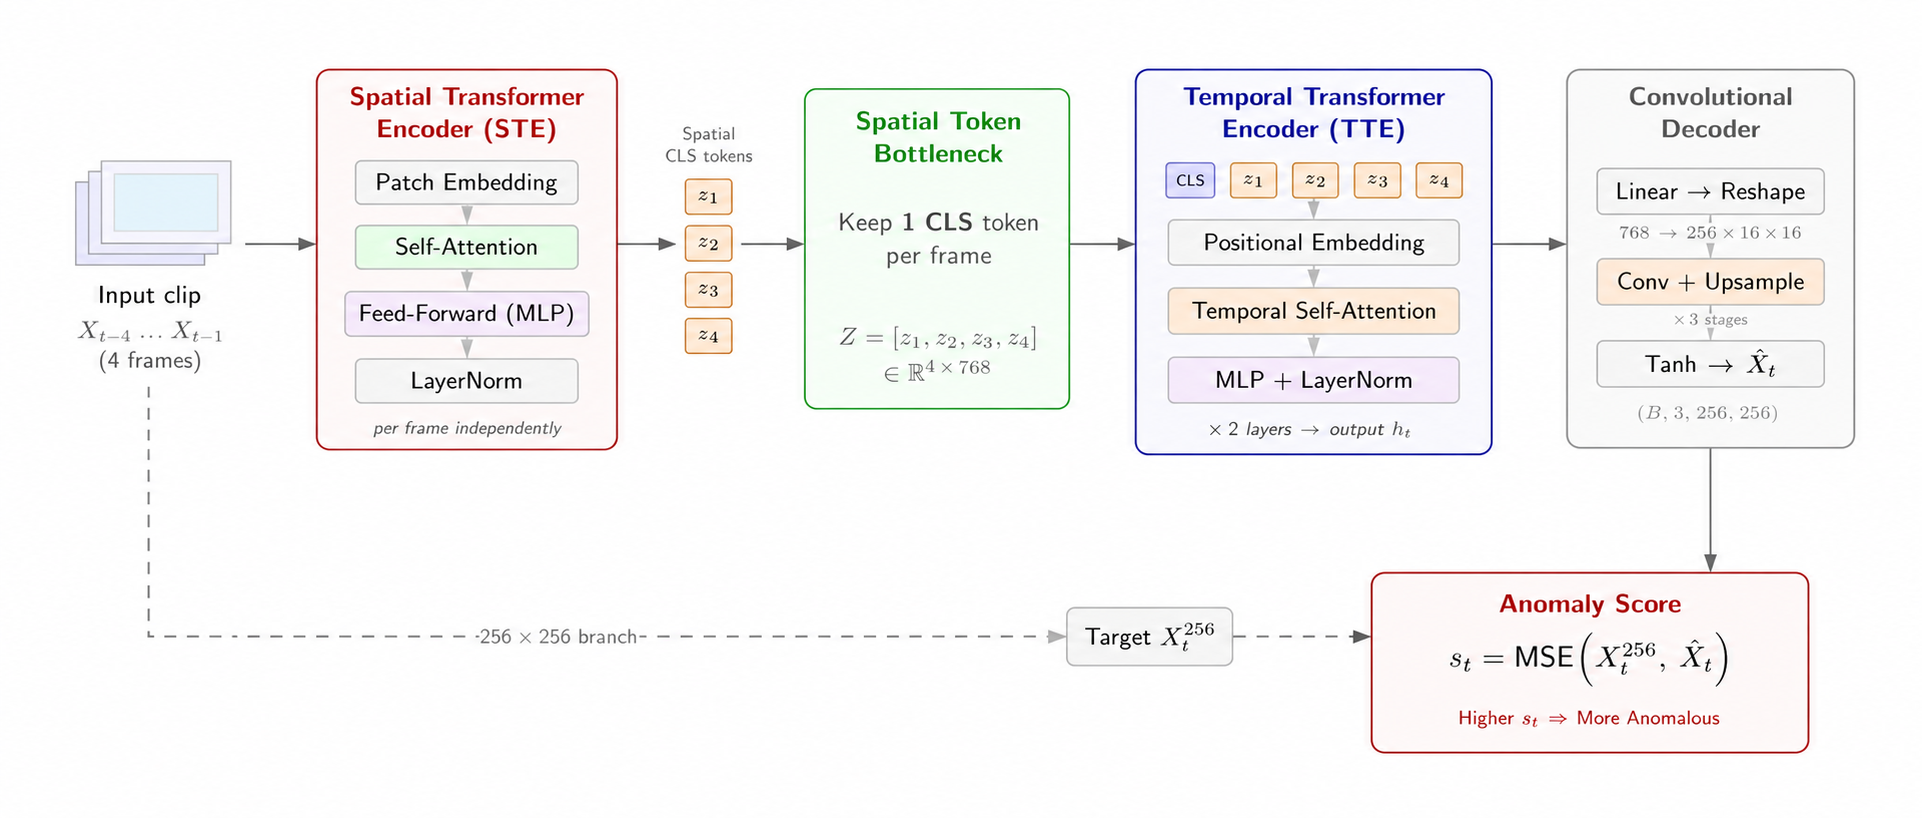
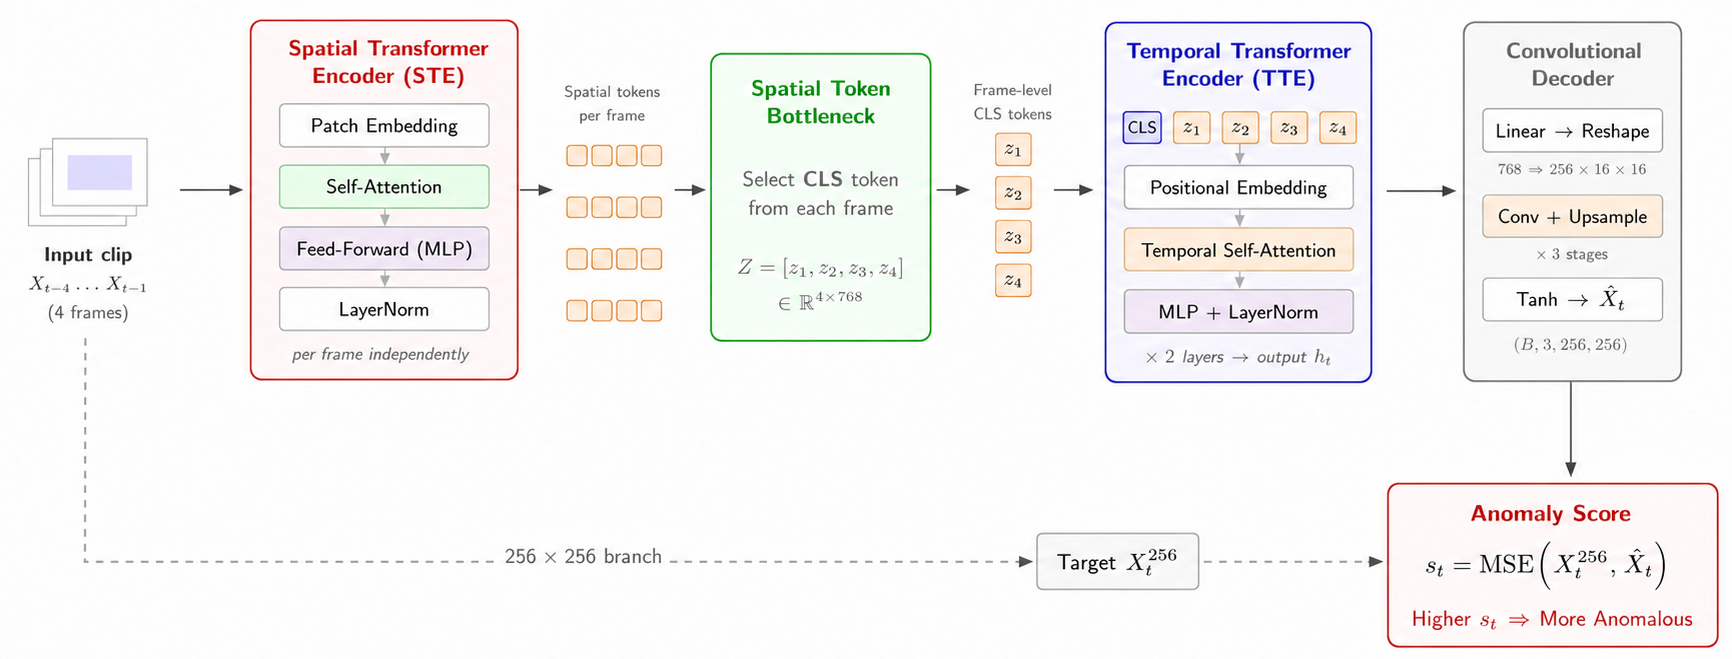
final

diff --git a/report/final/figures/pipeline_figure.tex b/report/final/figures/pipeline_figure.tex
@@ -56,12 +56,13 @@
 % Coordinates
 \coordinate (inputC) at (0, 3.15);
 \coordinate (steC) at (4.65, 3.15);
-\coordinate (tokC) at (8.65, 3.15);
-\coordinate (botC) at (11.45, 3.15);
-\coordinate (tteC) at (15.95, 3.15);
-\coordinate (decC) at (20.80, 3.15);
-\coordinate (targetC) at (14.25, -2.25);
-\coordinate (scoreC) at (20.80, -2.25);
+\coordinate (tokC) at (8.20, 3.15);
+\coordinate (botC) at (10.95, 3.15);
+\coordinate (outTokC) at (13.55, 3.15);
+\coordinate (tteC) at (16.95, 3.15);
+\coordinate (decC) at (21.80, 3.15);
+\coordinate (targetC) at (15.25, -2.25);
+\coordinate (scoreC) at (21.80, -2.25);
 
 % ---------------------------------------------------------------------
 % Input clip
@@ -95,13 +96,14 @@
 \draw[innerarrow] (ste3.south) -- (ste4.north);
 
 % ---------------------------------------------------------------------
-% Spatial CLS tokens
+% Spatial tokens before bottleneck
 % ---------------------------------------------------------------------
-\node[smallnote] at ($(tokC)+(0,1.30)$) {Spatial\\CLS tokens};
-\node[token] (z1) at ($(tokC)+(0,0.72)$) {$z_1$};
-\node[token] (z2) at ($(tokC)+(0,0.00)$) {$z_2$};
-\node[token] (z3) at ($(tokC)+(0,-0.72)$) {$z_3$};
-\node[token] (z4) at ($(tokC)+(0,-1.44)$) {$z_4$};
+\node[smallnote] at ($(tokC)+(0,1.18)$) {Spatial tokens\\per frame};
+\foreach \r/\y in {1/0.62,2/-0.08,3/-0.78,4/-1.48} {
+    \foreach \x in {-0.45,-0.15,0.15,0.45} {
+        \node[token, minimum width=0.27cm, minimum height=0.27cm, inner sep=0pt] at ($(tokC)+(\x,\y)$) {};
+    }
+}
 
 % ---------------------------------------------------------------------
 % Spatial Token Bottleneck
@@ -110,10 +112,19 @@
 \node[title, text=green!45!black] at ($(botC)+(0,1.32)$)
     {Spatial Token\\Bottleneck};
 \node[font=\sffamily\normalsize, text=black!68, align=center] at ($(botC)+(0,0.28)$)
-    {Keep \textbf{1 CLS token}\\per frame};
+    {Select \textbf{CLS token}\\from each frame};
 \node[font=\sffamily\normalsize, text=black!62] at ($(botC)+(0,-0.95)$)
     {$Z=[z_1,z_2,z_3,z_4]$};
 \node[note] at ($(botC)+(0,-1.45)$) {$\in \mathbb{R}^{4 \times 768}$};
+
+% ---------------------------------------------------------------------
+% Frame-level CLS tokens after bottleneck
+% ---------------------------------------------------------------------
+\node[smallnote] at ($(outTokC)+(0,1.30)$) {Frame-level\\CLS tokens};
+\node[token] (z1) at ($(outTokC)+(0,0.72)$) {$z_1$};
+\node[token] (z2) at ($(outTokC)+(0,0.00)$) {$z_2$};
+\node[token] (z3) at ($(outTokC)+(0,-0.72)$) {$z_3$};
+\node[token] (z4) at ($(outTokC)+(0,-1.44)$) {$z_4$};
 
 % ---------------------------------------------------------------------
 % Temporal Transformer Encoder
@@ -174,9 +185,10 @@
 % Main flow
 % ---------------------------------------------------------------------
 \draw[main] ($(inputC)+(1.55,0)$) -- (ste.west);
-\draw[main] (ste.east) -- (z2.west);
-\draw[main] (z2.east) -- (bot.west);
-\draw[main] (bot.east) -- (tte.west);
+\draw[main] (ste.east) -- ($(tokC)+(-0.75,0)$);
+\draw[main] ($(tokC)+(0.75,0)$) -- (bot.west);
+\draw[main] (bot.east) -- (z2.west);
+\draw[main] (z2.east) -- (tte.west);
 \draw[main] (tte.east) -- (dec.west);
 \draw[main] (dec.south) -- (score.north);
 

diff --git a/report/script_thuyet_trinh.md b/report/script_thuyet_trinh.md
@@ -1,0 +1,180 @@
+# Script thuyet trinh TrafficVision-Transformer
+
+Thoi luong goi y: 8-10 phut.  
+Giong noi: binh tinh, ro rang, khong doc tung bullet tren slide.  
+Thong diep chinh: day la nghien cuu tai hien co dieu chinh, tap trung vao pipeline va bien the nhe hoa phu hop tai nguyen sinh vien.
+
+---
+
+## Slide 1 - Tieu de
+
+Kinh chao thay co va cac ban.
+
+Nhom em xin trinh bay de tai TrafficVision-Transformer: tai hien co dieu chinh kien truc Spatio-Temporal Transformer nhe cho bai toan phat hien bat thuong giao thong trong video tu thiet bi bay khong nguoi lai.
+
+Y tuong chinh cua nhom la: thay vi phat hien bat thuong bang nhan truc tiep, mo hinh se hoc quy luat cua cac doan giao thong binh thuong. Sau do, neu gap mot khung hinh ma mo hinh du doan kem, sai so lon, thi khung hinh do co kha nang la bat thuong.
+
+Trong phan trinh bay nay, nhom se tap trung vao ba diem: vi sao bai toan kho, kien truc nhom da cai dat lai nhu the nao, va vi sao nhom dinh vi ket qua o muc prototype thay vi bao cao mot con so SOTA chua du tin cay.
+
+Chuyen slide: Dau tien, nhom xin trinh bay boi canh va bai toan.
+
+---
+
+## Slide 2 - Noi dung trinh bay
+
+Noi dung bai trinh bay gom sau phan.
+
+Phan mot la mo dau va dat van de. Phan hai la dinh vi va dong gop cua nghien cuu. Phan ba la phuong phap de xuat, trong do trong tam la pipeline STE-TTE va Spatial Token Bottleneck. Phan bon la thuc nghiem va danh gia. Cuoi cung, nhom tong ket huong phat trien va phan cong cong viec.
+
+Chuyen slide: Truoc het, tai sao nhom chon bai toan phat hien bat thuong giao thong tu video drone?
+
+---
+
+## Slide 3 - Mo dau va dat van de
+
+Video drone co mot loi the rat lon trong giam sat giao thong: no cho goc nhin rong, linh hoat, va co the quan sat toan canh mot khu vuc do thi. Tuy nhien, chinh goc nhin nay cung tao ra nhieu kho khan cho bai toan thi giac may tinh.
+
+Thu nhat, camera drone khong hoan toan co dinh. Video co the bi rung, bi thay doi goc nhin, hoac thay doi do cao. Thu hai, phuong tien trong anh thuong rat nho, dac biet khi quay tu tren cao. Thu ba, mat do giao thong thay doi manh theo tung canh va tung thoi diem.
+
+Mot kho khan quan trong hon la du lieu bat thuong rat hiem. Cac su kien nhu tai nan, di sai lan, dung dot ngot, hay va cham khong xuat hien thuong xuyen. Neu dung hoc co giam sat, chung ta se can rat nhieu nhan bat thuong, nhung viec thu thap va gan nhan nhu vay ton cong va khong thuc te.
+
+Vi vay, nhom chon huong hoc khong giam sat. Mo hinh chi hoc tren du lieu binh thuong. Cu the, nhom dung bai toan du doan khung hinh tuong lai: lay bon frame qua khu de du doan frame tiep theo. Neu canh giao thong dien ra binh thuong, mo hinh se du doan kha tot. Neu xuat hien hanh vi la, sai so du doan tang len, va sai so MSE nay duoc dung lam anomaly score.
+
+Chuyen slide: Voi cach tiep can nay, dong gop cua nhom nam o dau?
+
+---
+
+## Slide 4 - Dinh vi va dong gop
+
+Nhom khong dinh vi day la mot cong trinh phat minh hoan toan moi tu con so khong. Day la mot nghien cuu tai hien co dieu chinh tu huong Spatio-Temporal Transformer cho video giao thong drone.
+
+Diem quan trong la nhom dua bai toan ve mot phien ban co the cai dat, chay thu, va kiem chung trong dieu kien tai nguyen han che cua sinh vien, cu the la moi truong Google Colab.
+
+Dong gop thu nhat la cach nhe hoa mo hinh bang Spatial Token Bottleneck. Thay vi de temporal transformer xu ly tat ca patch token cua tat ca frame, nhom chi giu lai mot CLS token dai dien cho moi frame. Nhu vay, nhanh thoi gian chi can hoc tren chuoi token ngan hon rat nhieu.
+
+Dong gop thu hai la nhom xay dung pipeline end-to-end: tu doc du lieu UIT-ADrone, tao sample gom 4 frame dau vao va 1 frame target, dua qua STE, TTE, decoder, tinh MSE, luu anomaly score va dua vao script tinh AUC-ROC.
+
+Dong gop thu ba la phan tich tinh kha thi. Nhom khong co tinh bao cao mot ket qua huan luyen full-scale chua on dinh. Thay vao do, nhom trinh bay ro gioi han tinh toan va nhung phan da kiem chung duoc ve mat ky thuat.
+
+Chuyen slide: Tiep theo la kien truc tong quan cua pipeline.
+
+---
+
+## Slide 5 - Phuong phap: Tong quan kien truc
+
+Day la pipeline tong quan cua TrafficVision-Transformer.
+
+Dau vao cua mo hinh la mot input clip gom bon khung hinh qua khu, ky hieu tu X t tru 4 den X t tru 1. Data Loader se tao mau gom 5 frame lien tiep: 4 frame dau dung lam input, frame cuoi la target de tinh loss.
+
+Trong project, du lieu duoc tao thanh hai nhanh do phan giai. Nhanh standard, vi du 384 x 384, duoc dua vao encoder. Nhanh 256 x 256 duoc dung lam frame muc tieu cho decoder, giup giam bo nho khi tinh reconstruction loss.
+
+Khoi dau tien la Spatial Transformer Encoder, hay STE. Moi frame duoc dua qua mot Vision Transformer de trich xuat dac trung khong gian. Diem nhom tap trung la token CLS cua tung frame, vi no dong vai tro nhu bieu dien tong hop cua frame do.
+
+Sau STE la Spatial Token Bottleneck. Thay vi giu toan bo patch token, nhom chi giu mot CLS token cho moi frame. Voi 4 frame, ta co 4 token z1 den z4.
+
+Chuoi token nay duoc dua vao Temporal Transformer Encoder, hay TTE. TTE them mot CLS token o dau chuoi, hoc quan he thoi gian giua cac frame, roi lay token dau ra lam bieu dien tong hop cua ca clip ngan.
+
+Cuoi cung, Convolutional Decoder anh xa vector nay ve tensor dac trung, sau do upsample bang cac lop convolution de sinh anh du doan kich thuoc 256 x 256. Diem bat thuong duoc tinh bang MSE giua frame target that va frame du doan.
+
+Noi ngan gon: pipeline nay hoc "binh thuong trong qua khu thi frame tiep theo nen trong nhu the nao". Khi thuc te khac nhieu so voi du doan, score tang.
+
+Chuyen slide: Sau khi co kien truc, nhom thiet lap thuc nghiem nhu sau.
+
+---
+
+## Slide 6 - Thiet lap thuc nghiem
+
+Bo du lieu nhom huong toi la UIT-ADrone, mot bo du lieu giao thong do thi quay tu drone, co nhan frame-level cho tap test. Day la bo du lieu phu hop voi bai toan cua nhom vi no co dung ngu canh giao thong tren khong, va co the danh gia bang AUC-ROC.
+
+Ve cau hinh, moi sample gom 4 frame dau vao va 1 frame du doan. Anh vao encoder co kich thuoc 384, target reconstruction co kich thuoc 256 x 256. Khoi khong gian dua tren ViT-base patch16 trong ban cau hinh chinh, con Temporal Encoder duoc giu nong, voi so layer it hon, de giam chi phi huan luyen.
+
+Optimizer su dung SGD voi momentum 0.9 va learning rate 10 mu tru 4. Loss la MSE reconstruction. Metric danh gia mong muon la AUC-ROC frame-level.
+
+Nhom cung giu mot baseline CA trong project. Baseline nay cung theo huong du doan frame tuong lai, nhung cach ket hop dac trung khong gian - thoi gian khac voi STE-TTE. Vai tro cua baseline la lam diem doi chieu ve mat kien truc khi co du tai nguyen huan luyen day du.
+
+Chuyen slide: Tuy nhien, phan ket qua cua nhom can duoc hieu dung la ket qua kiem chung prototype.
+
+---
+
+## Slide 7 - Ket qua kiem chung prototype
+
+Day la slide quan trong, vi nhom muon trinh bay trung thuc ve ket qua.
+
+Voi gioi han GPU tren Colab, dac biet khi train video transformer tren nhieu frame va doc du lieu tu Google Drive, viec huan luyen full-scale de lay con so AUC on dinh la rat ton thoi gian. Neu co bao cao mot con so chua hoi tu, no se khong phan anh dung nang luc cua mo hinh.
+
+Vi vay, nhom uu tien kiem chung tinh dung dan cua pipeline.
+
+Cu the, DataLoader da load dung mau gom 4 input frame va 1 target frame, dong thoi xu ly duoc hai nhanh do phan giai. Forward pass da duoc kiem tra: tensor di qua Spatial Transformer Encoder, qua Bottleneck, qua Temporal Transformer Encoder, va decoder sinh ra anh co shape B, 3, 256, 256.
+
+Trong qua trinh train thu, loss MSE co the tinh va cap nhat. Checkpoint co the luu va tai lai cho inference. Sau inference, pipeline luu duoc chuoi anomaly score duoi dang file .npy, va cac file nay duoc dua vao script compute_auc.py de tinh AUC-ROC voi nhan frame-level.
+
+Ket luan cua slide nay la: nhom da chung minh duoc phien ban kien truc nhe hoat dong dung ve mat ky thuat, va pipeline da san sang scale-up neu co GPU manh hon hoac thoi gian train dai hon.
+
+Chuyen slide: Tu ket qua prototype do, nhom rut ra mot so uu diem, han che va huong phat trien.
+
+---
+
+## Slide 8 - Tong ket va huong phat trien
+
+Ve uu diem, cach tiep can nay la hoc khong giam sat, nen phu hop voi bai toan ma du lieu bat thuong hiem va kho gan nhan. Ngoai ra, reconstruction error bang MSE rat truc quan: neu mo hinh du doan frame tuong lai kem, ta co co so de xem frame do la bat thuong.
+
+Thiet ke cua nhom cung linh hoat de cai dat va debug. Spatial Token Bottleneck giup giam so token dua vao Temporal Transformer, tu do lam pipeline nhe hon so voi viec attention tren toan bo patch token cua video.
+
+Tuy nhien, phuong phap co han che. Mot token cho moi frame co the lam mat chi tiet nho, trong khi phuong tien trong video drone von da rat nho. Ngoai ra, MSE toan anh co the bi anh huong boi rung camera, thay doi anh sang, hoac chuyen dong nen, chu khong chi do bat thuong giao thong.
+
+Huong phat trien cua nhom gom ba diem. Thu nhat, dung pretrained ViT va fine-tune mot phan encoder de rut ngan thoi gian hoi tu. Thu hai, bo sung optical flow hoac crop vung phuong tien de mo hinh tap trung vao chuyen dong quan trong thay vi nen anh. Thu ba, khi co tai nguyen tinh toan lon hon, huan luyen full-scale tren UIT-ADrone va bao cao day du cac chi so nhu AUC va EER.
+
+Chuyen slide: Cuoi cung la phan cong cong viec trong nhom.
+
+---
+
+## Slide 9 - Phan cong cong viec
+
+Trong qua trinh thuc hien, nhom chia cong viec theo ba nhanh chinh.
+
+Ban Dang Quang Minh phu trach tien xu ly du lieu, kiem tra DataLoader, phan danh gia va AUC. San pham tu phan nay la module du lieu va script tinh AUC.
+
+Ban Vu Hoang Dieu Linh phu trach cai dat va phan tich mo hinh STE-TTE nhe, kiem tra forward pass, train script va checkpoint. Day la phan lien quan truc tiep den pipeline kien truc chinh.
+
+Ban Le Hong Phuong Chi phu trach baseline, tong hop ket qua, viet bao cao va slide. Phan nay giup bai co cau truc so sanh va trinh bay ro rang hon.
+
+Ve mat ma nguon, project duoc to chuc theo cac thu muc data, models, configs, scripts va results. Cach to chuc nay giup tach ro tung phan cua mot du an deep learning: du lieu, mo hinh, cau hinh, huan luyen va danh gia.
+
+Chuyen slide: Phan trinh bay cua nhom den day la ket thuc.
+
+---
+
+## Slide 10 - Cam on va Q&A
+
+Nhom em xin cam on thay co va cac ban da lang nghe.
+
+Nhom rat mong nhan duoc cau hoi va gop y, dac biet ve hai huong: mot la cach nhe hoa kien truc Transformer cho video drone, hai la cach danh gia thuc nghiem hop ly trong dieu kien tai nguyen tinh toan han che.
+
+---
+
+# Cau hoi du phong
+
+## 1. Tinh moi cua de tai la gi?
+
+Tinh moi cua nhom khong nam o viec phat minh toan bo nguyen ly moi, ma nam o viec tai hien co dieu chinh va nhe hoa pipeline cho dieu kien tai nguyen han che.
+
+Cu the, nhom dung Spatial Token Bottleneck: moi frame chi giu mot CLS token dai dien truoc khi dua vao Temporal Transformer. Dieu nay lam giam chi phi attention theo thoi gian va giup pipeline co the kiem chung tren Colab. Ngoai ra, nhom cai dat day du end-to-end tu data loader den anomaly score va AUC.
+
+## 2. Tai sao khong bao cao AUC cuoi cung?
+
+Vi nhom chua huan luyen full-scale den hoi tu. Video transformer tren UIT-ADrone ton tai nguyen, moi sample gom nhieu frame, va I/O tu Google Drive tren Colab cung cham. Neu bao cao mot con so khi train chua du, con so do de gay hieu nham.
+
+Vi vay nhom chon cach bao cao trung thuc: ket qua prototype, kiem chung pipeline, forward pass, loss, checkpoint, inference va anomaly score.
+
+## 3. Neu chi giu 1 token/frame thi co mat thong tin khong?
+
+Co. Day la trade-off chinh. Mot token/frame co the lam mat chi tiet cua phuong tien nho. Nhung doi lai, temporal encoder nhe hon rat nhieu va co the chay trong dieu kien han che. Trong huong phat trien, nhom co the giu nhieu token quan trong hon, hoac ket hop crop vung phuong tien de giam mat thong tin.
+
+## 4. Tai sao dung MSE lam anomaly score?
+
+Vi bai toan theo huong future frame prediction. Mo hinh hoc du doan frame tiep theo tu cac frame binh thuong. Khi gap bat thuong, frame that se khac voi frame mo hinh du doan, nen MSE tang. MSE don gian, de giai thich va phu hop voi thiet lap unsupervised.
+
+## 5. Huong cai tien kha thi nhat la gi?
+
+Huong kha thi nhat la dung pretrained ViT va fine-tune mot phan encoder. Cach nay giam thoi gian hoi tu so voi train tu dau. Sau do co the them optical flow hoac smoothing score theo thoi gian de giam nhieu do rung camera va thay doi anh sang.
+